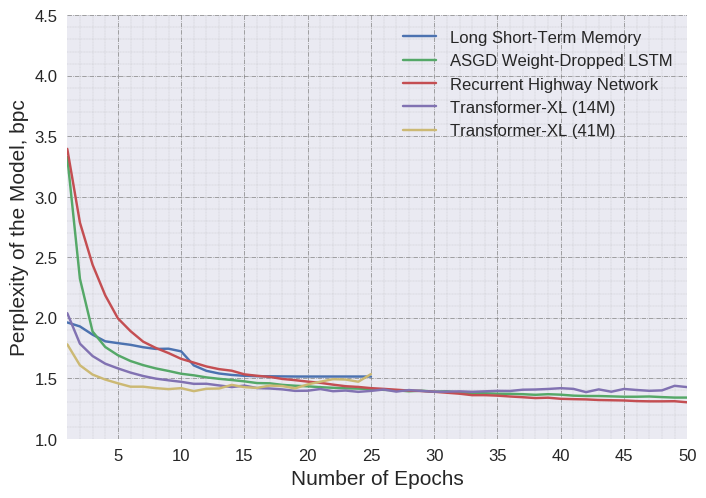
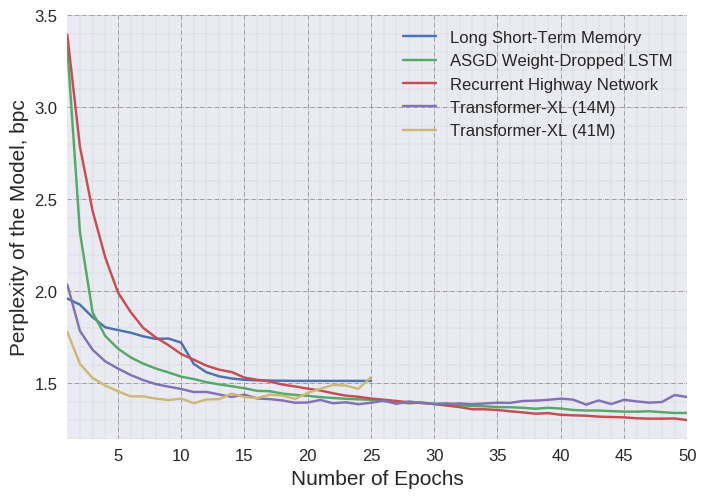
Up

diff --git a/plot_spk_span.py b/plot_spk_span.py
@@ -104,7 +104,7 @@ with plt.style.context(('seaborn')):
     plt.grid(which='major', linestyle='-.', linewidth='0.5', color='grey')
     plt.grid(which='minor', linestyle=':', linewidth='0.2', color='grey')
     plt.xlim(1, len(y2))
-    plt.ylim(1, 4.5)
+    plt.ylim(1.2, 3.5)
     plt.xlabel('Number of Epochs', fontsize=15)
     plt.ylabel('Perplexity of the Model, bpc', fontsize=15)
     lgd = plt.legend(loc='upper right', shadow=True, fancybox=True, numpoints=1, prop={'size': 12})
